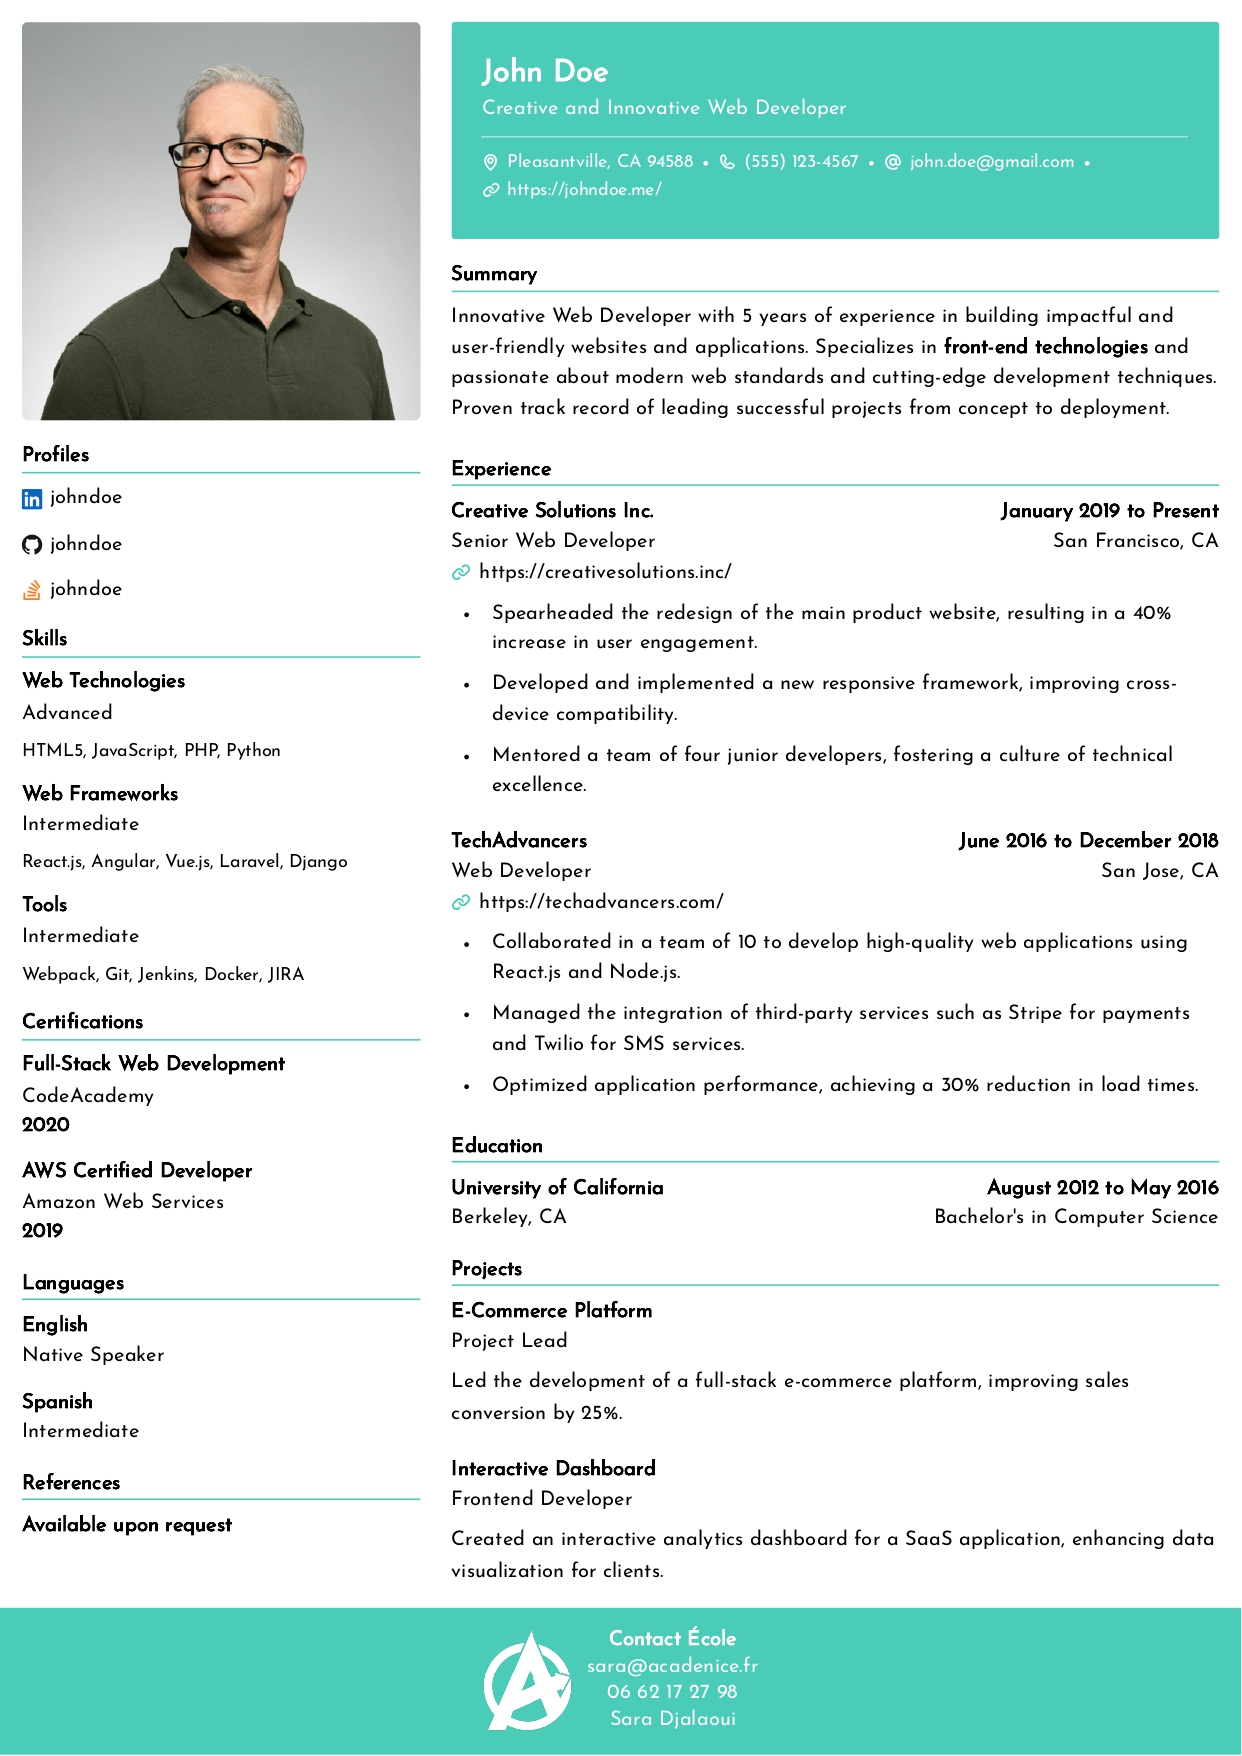
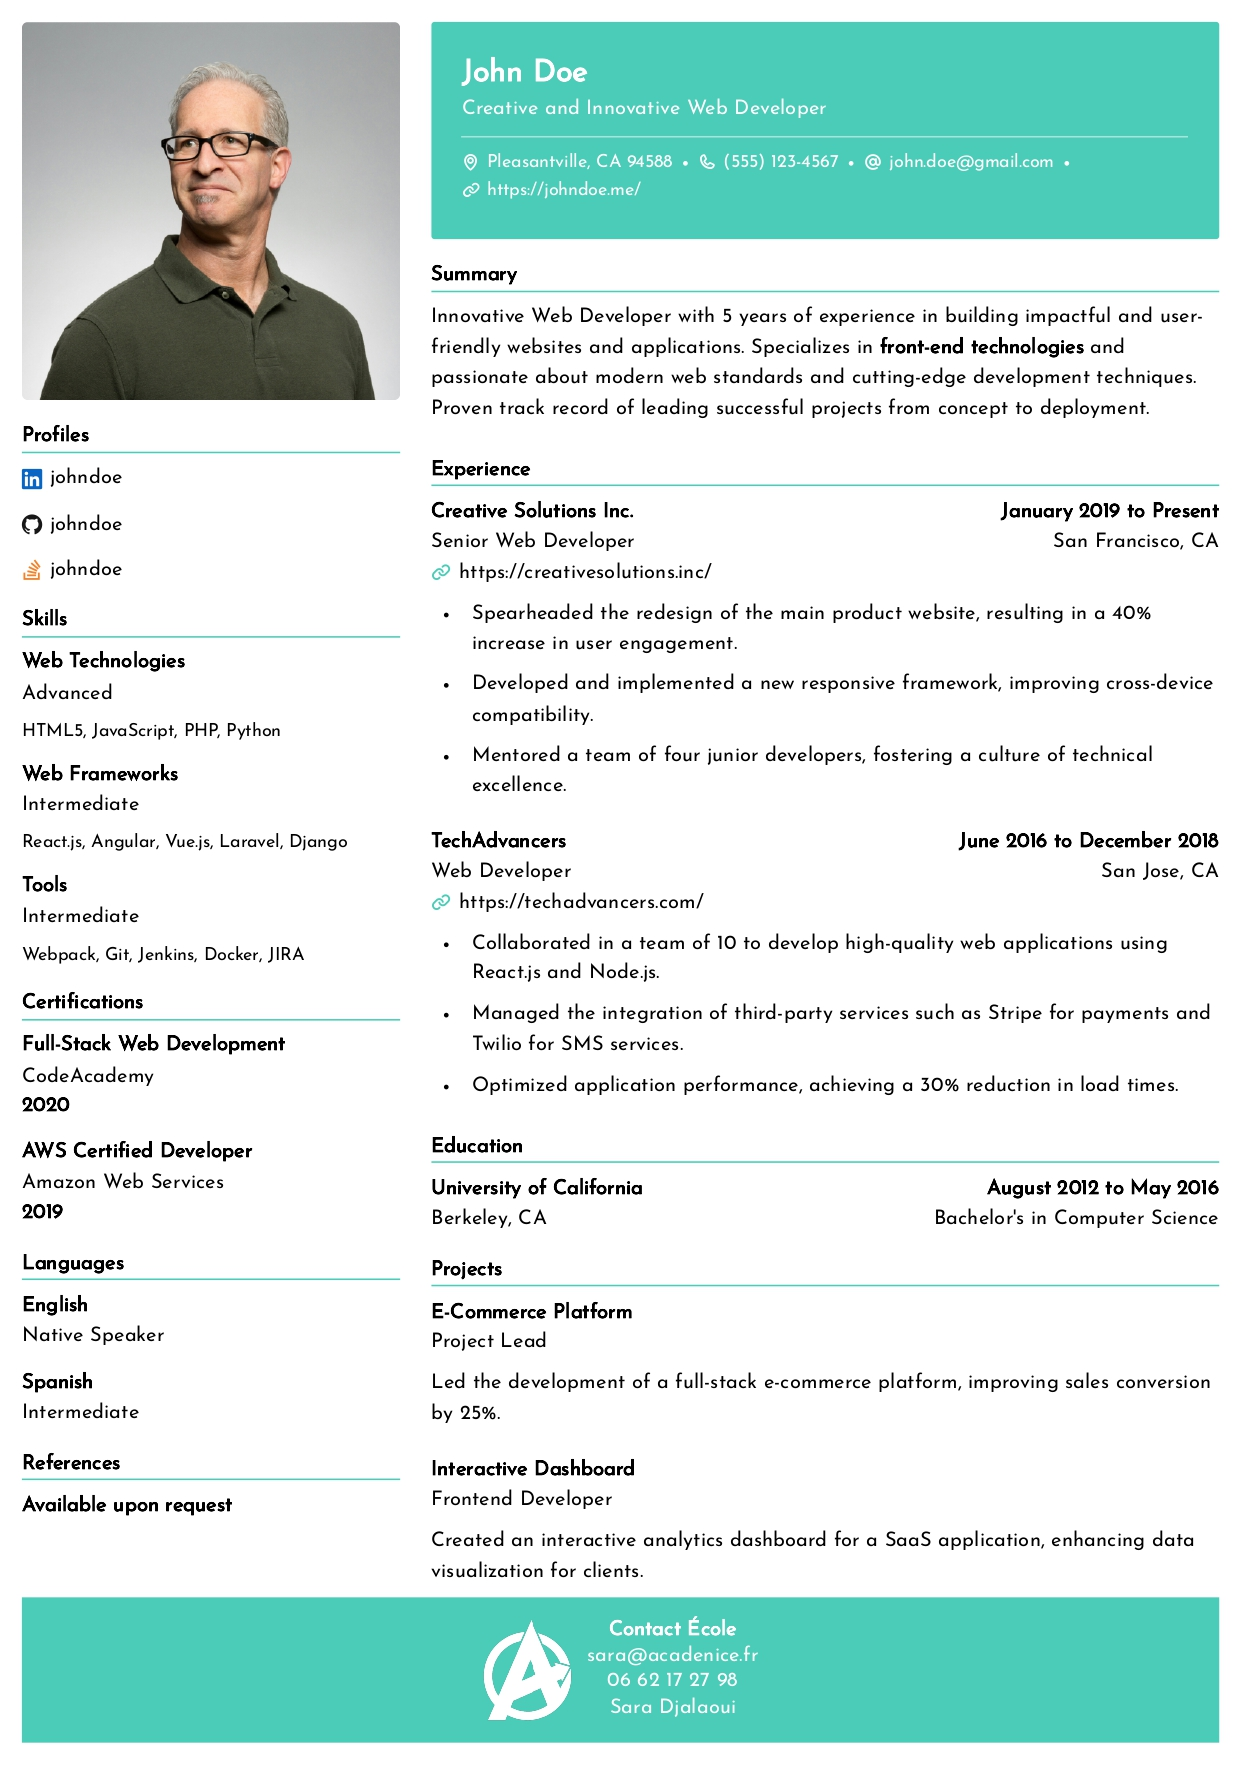
feat(ui): amélioration du template Euphorbia et harmonisation du design

Changed region(s): [[0.0, 0.0, 1.0, 1.0], [0.0612, 0.0308, 0.2754, 0.1845], [0.8261, 0.2768, 0.9791, 0.3075]]

diff --git a/apps/client/src/pages/dashboard/settings/_sections/openai.tsx b/apps/client/src/pages/dashboard/settings/_sections/openai.tsx
@@ -197,7 +197,7 @@ export const OpenAISettings = () => {
       </div>
 
       <Alert variant="warning">
-        <div className="prose prose-neutral max-w-full text-xs leading-relaxed text-primary dark:prose-invert">
+        <div className="prose prose-neutral max-w-full text-xs leading-relaxed text-black dark:prose-invert">
           <Trans>
             <span className="font-medium">Note: </span>
             By utilizing the OpenAI API, you acknowledge and accept the{" "}
@@ -205,6 +205,7 @@ export const OpenAISettings = () => {
               href="https://openai.com/policies/terms-of-use"
               rel="noopener noreferrer nofollow"
               target="_blank"
+              className="font-bold"
             >
               terms of use
             </a>{" "}
@@ -213,6 +214,7 @@ export const OpenAISettings = () => {
               href="https://openai.com/policies/privacy-policy"
               rel="noopener noreferrer nofollow"
               target="_blank"
+              className="font-bold"
             >
               privacy policy
             </a>{" "}

diff --git a/apps/client/src/pages/builder/sidebars/right/index.tsx b/apps/client/src/pages/builder/sidebars/right/index.tsx
@@ -56,7 +56,7 @@ export const RightSidebar = () => {
         </div>
       </ScrollArea>
 
-      <div className="hidden basis-12 flex-col items-center justify-between bg-secondary-accent/30 py-4 sm:flex">
+      <div className="hidden basis-12 flex-col items-center justify-between bg-primary-accent/25 py-4 sm:flex">
         <div />
 
         <div className="flex flex-col items-center justify-center gap-y-2">
@@ -109,13 +109,13 @@ export const RightSidebar = () => {
               scrollIntoView("#sharing");
             }}
           />
-          <SectionIcon
+          {/* <SectionIcon
             id="statistics"
             name={t`Statistics`}
             onClick={() => {
               scrollIntoView("#statistics");
             }}
-          />
+          /> */}
           <SectionIcon
             id="export"
             name={t`Export`}

diff --git a/apps/artboard/src/templates/acadenice/euphorbia.tsx b/apps/artboard/src/templates/acadenice/euphorbia.tsx
@@ -602,7 +602,7 @@ export const Euphorbia = ({ columns, isFirstPage = false }: TemplateProps) => {
   const [main, sidebar] = columns;
 
   return (
-    <div className="p-custom grid grid-cols-3 space-x-6">
+    <div className="p-custom grid grid-cols-3 gap-x-6">
       <div className="sidebar group space-y-4">
         {isFirstPage && <Picture className="w-full !max-w-none" />}
 
@@ -618,7 +618,7 @@ export const Euphorbia = ({ columns, isFirstPage = false }: TemplateProps) => {
           <Fragment key={section}>{mapSectionToComponent(section)}</Fragment>
         ))}
       </div>
-      <div className="absolute bottom-0 right-0 w-full bg-primary">
+      <div className="group col-span-3 space-y-4 bg-primary">
         <SealWhite maxHeight={5} />
       </div>
     </div>

diff --git a/apps/client/src/components/user-avatar.tsx b/apps/client/src/components/user-avatar.tsx
@@ -17,7 +17,7 @@ export const UserAvatar = ({ size = 36, className }: Props) => {
   if (user.picture) {
     picture = (
       <img
-        alt={user.name}
+        alt=" "
         src={user.picture}
         className="rounded-full"
         style={{ width: size, height: size }}
@@ -29,7 +29,7 @@ export const UserAvatar = ({ size = 36, className }: Props) => {
     picture = (
       <div
         style={{ width: size, height: size }}
-        className="flex items-center justify-center rounded-full bg-secondary text-center text-[10px] font-semibold text-secondary-foreground"
+        className="flex items-center justify-center rounded-full bg-primary text-center text-[10px] font-semibold text-white"
       >
         {initials}
       </div>

diff --git a/apps/client/src/pages/builder/sidebars/left/index.tsx b/apps/client/src/pages/builder/sidebars/left/index.tsx
@@ -42,7 +42,7 @@ export const LeftSidebar = () => {
 
   return (
     <div className="flex bg-secondary-accent/30">
-      <div className="hidden basis-12 flex-col items-center justify-between bg-secondary-accent/30 py-4 sm:flex">
+      <div className="hidden basis-12 flex-col items-center justify-between bg-primary-accent/25 py-4 sm:flex">
         <Button asChild size="icon" variant="ghost" className="size-8 rounded-full">
           <Link to="/dashboard">
             <Icon size={14} />

diff --git a/README.md b/README.md
@@ -94,3 +94,7 @@
 ## 27 Juin 2025
 - Fin personnalisation du premier template
 - Ajout de 4 autres templates
+
+## 28 Juin 2025
+- Ajustement du template Euphorbia
+- Ajustement de la couleur du texte du bloc de remarque sur OpenAI
